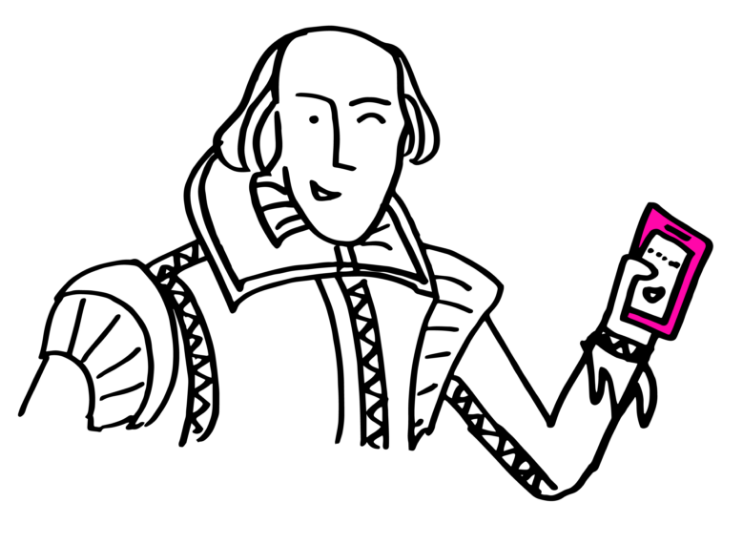
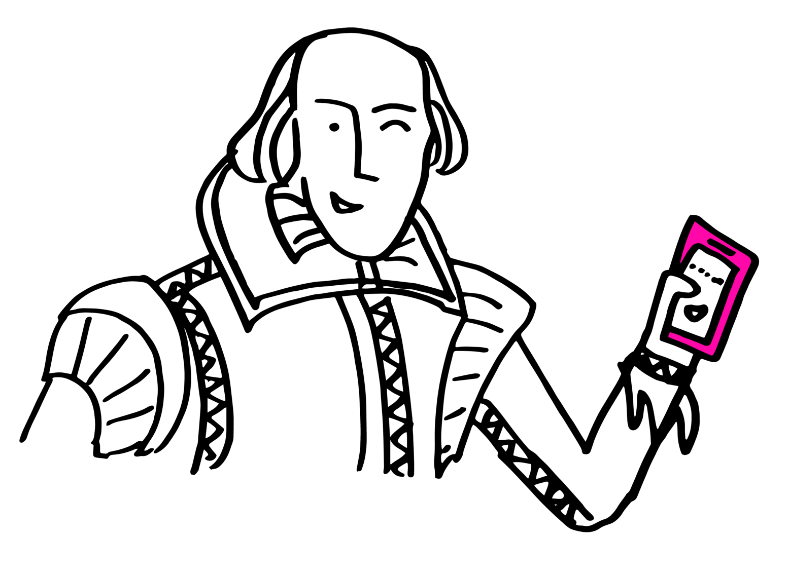
started mobilizing guideline 4

diff --git a/src/issues/issue-1/sext-ed.js b/src/issues/issue-1/sext-ed.js
@@ -93,9 +93,15 @@ const Sext = () => {
     edge => edge.node.name === "dirty-talk-2"
   )
 
-  const sexShakespeare = data.allFile.edges.find(
-    edge => edge.node.name === "sex-shakespeare"
+  const sexShakespeareDeskTop = data.allFile.edges.find(
+    edge => edge.node.name === "4-sex-shakespeare"
   )
+  const sexShakespeareMobile = data.allFile.edges.find(
+    edge => edge.node.name === "4-sex-shakespeare-mobile"
+  )
+  const displayGuideline4 = isPhoneWide
+    ? sexShakespeareMobile
+    : sexShakespeareDeskTop
 
   const shakespeare = data.allFile.edges.find(
     edge => edge.node.name === "shakespeare"
@@ -195,7 +201,6 @@ const Sext = () => {
           </div>
         </Column>
       </Row>
-
       <Row>
         <Column width={30}>
           <div style={{ width: "100%" }}>
@@ -219,6 +224,7 @@ const Sext = () => {
           </Text>
         </Column>
       </Row>
+
       <Row style={{ justifyContent: "flex-start", margin: "0" }}>
         <Column width={75}>
           <div style={{ width: "100%" }}>
@@ -227,7 +233,7 @@ const Sext = () => {
         </Column>
       </Row>
       <Row style={{ marginLeft: "5%" }}>
-        <Column width="60">
+        <Column width={45} style={{ marginTop: "30px" }}>
           <Text>
             Sometimes a few flirty texts are just…a few flirty texts! Just like
             physical sexual acts don’t always have to end in orgasm—thovugh, we
@@ -237,19 +243,23 @@ const Sext = () => {
             always have to be actively trying to get off.
           </Text>
         </Column>
-        <div style={{ width: "40%" }}>
-          <Img
-            style={{ width: "60%" }}
-            fluid={dirtyTalk2.node.childImageSharp.fluid}
-          />
-        </div>
+        <Column width={45}>
+          <div style={{ width: "100%" }}>
+            <Img
+              style={{ width: "70%" }}
+              fluid={dirtyTalk2.node.childImageSharp.fluid}
+            />
+          </div>
+        </Column>
       </Row>
-      <div style={{ width: "100%", marginLeft: "45%" }}>
-        <Img
-          style={{ width: "55%", height: "70px" }}
-          fixed={sexShakespeare.node.childImageSharp.fixed}
-        />
-      </div>
+
+      <Row style={{ justifyContent: "flex-end", margin: "0" }}>
+        <Column width={70}>
+          <div style={{ width: "100%" }}>
+            <Img fluid={displayGuideline4.node.childImageSharp.fluid} />
+          </div>
+        </Column>
+      </Row>
       <Row>
         <div style={{ width: "50%", marginLeft: "10%" }}>
           <Img
